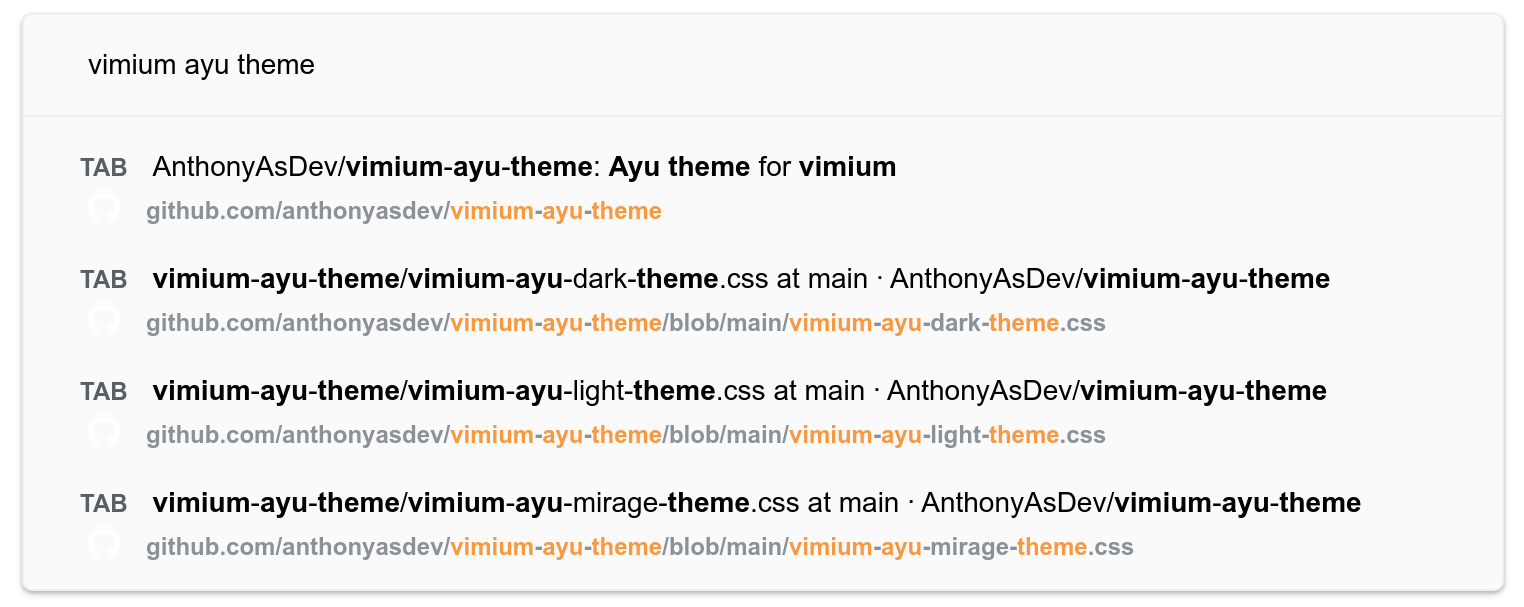
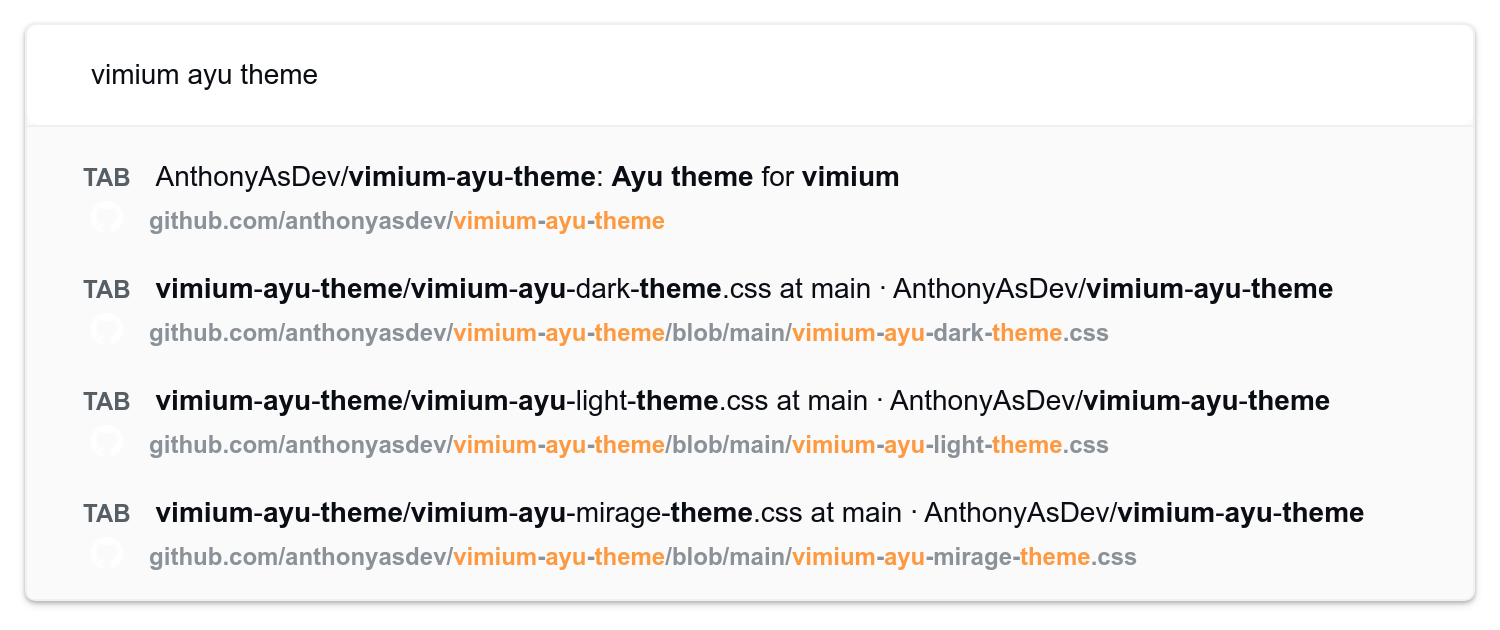
redefining all colors and updating documentation

diff --git a/vimium-ayu-dark-theme.css b/vimium-ayu-dark-theme.css
@@ -14,21 +14,21 @@
   --shadow: 0 2px 4px rgba(0, 0, 0, 0.12), 0 1px 2px rgba(0, 0, 0, 0.24);
 
 /* -------- VOMNIBAR & HUD -------- */
-  --fg: #FFFFFF;
+  --fg: #FAFAFA;
   --fg-dark: #B3B1AD;
   --fg-url: #4D5566; 
   --fg-match: #E6B450;
 
   --bg: #0A0E14;
-  --bg-searcharea: #0A0E14;
+  --bg-searcharea: #0D1016;
   --bg-selected: #00010A;
 
   --border: #000000;
 
 /* -------- HINTS -------- */
-  --bg-hints: #E6B450;      /* Background color of link hints */
-  --border-hints: #FFB454;  /* Border color of link hints */
-  --fg-hints: #FFFFFF;      /* Text color of link hints */
+  --bg-hints: #FF9940;      /* Background color of link hints */
+  --border-hints: #FA8D3E;  /* Border color of link hints */
+  --fg-hints: #FAFAFA;      /* Text color of link hints */
 }
 
 /* --------------------------------- CSS --------------------------------- */

diff --git a/vimium-ayu-mirage-theme.css b/vimium-ayu-mirage-theme.css
@@ -14,21 +14,21 @@
   --shadow: 0 2px 4px rgba(0, 0, 0, 0.12), 0 1px 2px rgba(0, 0, 0, 0.24);
 
 /* -------- VOMNIBAR & HUD -------- */
-  --fg: #FFFFFF;
+  --fg: #FAFAFA;
   --fg-dark: #CBCCC6;
   --fg-url: #707A8C; 
   --fg-match: #FFCC66;
 
   --bg: #1F2430;
-  --bg-searcharea: #1F2430;
+  --bg-searcharea: #232834;
   --bg-selected: #141925;
 
   --border: #101521;
 
 /* -------- HINTS -------- */
-  --bg-hints: #FFCC66;      /* Background color of link hints */
-  --border-hints: #FFD580;  /* Border color of link hints */
-  --fg-hints: #FFFFFF;      /* Text color of link hints */
+  --bg-hints: #FF9940;      /* Background color of link hints */
+  --border-hints: #FA8D3E;  /* Border color of link hints */
+  --fg-hints: #FAFAFA;      /* Text color of link hints */
 }
 
 /* --------------------------------- CSS --------------------------------- */

diff --git a/vimium-ayu-light-theme.css b/vimium-ayu-light-theme.css
@@ -14,20 +14,20 @@
   --shadow: 0 2px 4px rgba(0, 0, 0, 0.12), 0 1px 2px rgba(0, 0, 0, 0.24);
 
 /* -------- VOMNIBAR & HUD -------- */
-  --fg: #000000;
+  --fg: #0A0E14;
   --fg-dark: #575F66;
   --fg-url: #8A9199; 
   --fg-match: #FF9940;
 
   --bg: #FAFAFA;
-  --bg-searcharea: #FAFAFA;
-  --bg-selected: #424A5040;
+  --bg-searcharea: #FFFFFF;
+  --bg-selected: #8A91991A;
 
   --border: #F0F0F0;
 
 /* -------- HINTS -------- */
   --bg-hints: #FF9940;      /* Background color of link hints */
-  --border-hints: #F2AE49;  /* Border color of link hints */
+  --border-hints: #FA8D3E;  /* Border color of link hints */
   --fg-hints: #FAFAFA;      /* Text color of link hints */
 }
 

diff --git a/README.md b/README.md
@@ -1,35 +1,25 @@
 # Vimium Ayu Theme
 Ayu theme for vimium
 
-## Ayu Dark
 
-### Vomnibar
+## Vomnibar
+### Ayu Dark
 <img width="100%" src="./img/dark/vomnibar.png">
-<img width="100%" src="./img/dark/vomnibar_select.png">
+<img width="100%" src="./img/dark/selection.png">
 <img width="100%" src="./img/dark/google.png">
 
-### Hints
-<img width="100%" src="./img/dark/hints_dark.png">
-
-## Ayu Mirage
-
-### Vomnibar
+### Ayu Mirage
 <img width="100%" src="./img/mirage/vomnibar.png">
-<img width="100%" src="./img/mirage/vomnibar_select.png">
+<img width="100%" src="./img/mirage/selection.png">
 <img width="100%" src="./img/mirage/google.png">
 
-### Hints
-<img width="100%" src="./img/mirage/hints_mirage.png">
-
-## Ayu Light
-
-### Vomnibar
+### Ayu Light
 <img width="100%" src="./img/light/vomnibar.png">
-<img width="100%" src="./img/light/vomnibar_select.png">
+<img width="100%" src="./img/light/selection.png">
 <img width="100%" src="./img/light/google.png">
 
-### Hints
-<img width="100%" src="./img/light/hints_light.png">
+## Hints
+<img width="100%" src="./img/others/hints.png">
 
 <br />
 
